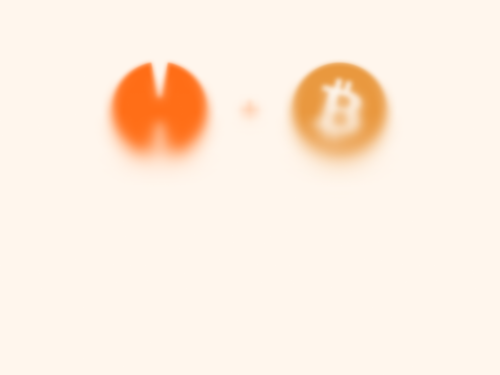
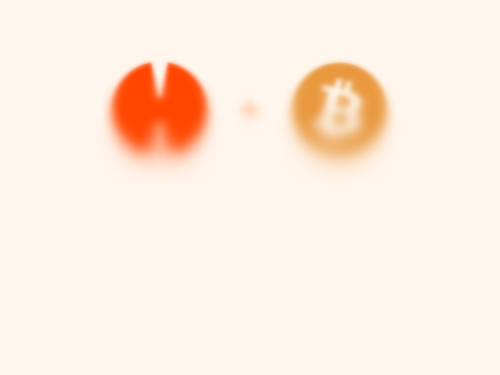
Update shades of orange

Changed region(s): [[0.21, 0.176, 0.42, 0.4107]]

diff --git a/portal/stories/table.stories.tsx b/portal/stories/table.stories.tsx
@@ -23,7 +23,7 @@ type Row = {
 
 const HemiToken = ({ className }: { className?: string }) => (
   <svg aria-hidden="true" className={className} fill="none" viewBox="0 0 20 20">
-    <rect fill="#FF6C15" height={20} rx={10} width={20} />
+    <rect fill="#FF4600" height={20} rx={10} width={20} />
     <path
       d="M11.2016 3.7519C11.1372 3.74034 11.0767 3.78272 11.0653 3.84823L10.2895 8.3296H9.71049L8.93468 3.84823C8.92333 3.78272 8.86277 3.74034 8.79844 3.7519C6.04337 4.29521 3.93165 6.68425 3.75757 9.60504C3.75757 9.60889 3.75 9.7322 3.75 9.79385C3.75 9.80156 3.75 9.80926 3.75 9.81312C3.75 9.83624 3.75 9.85935 3.75 9.88247C3.75 9.89018 3.75 9.89789 3.75 9.90945C3.75 9.94027 3.75 9.96725 3.75 9.99807C3.75 13.0961 5.92227 15.674 8.80222 16.2442C8.86656 16.2558 8.92711 16.2134 8.93846 16.1479L9.71427 11.6665H10.2933L11.0653 16.1518C11.0767 16.2173 11.1372 16.2597 11.2016 16.2481C13.9566 15.7009 16.0646 13.3119 16.2424 10.3911C16.2424 10.3873 16.25 10.2639 16.25 10.2023C16.25 10.1946 16.25 10.1869 16.25 10.183C16.25 10.1599 16.25 10.1368 16.25 10.1137C16.25 10.106 16.25 10.0983 16.25 10.0867C16.25 10.0559 16.25 10.0289 16.25 9.99807C16.2538 6.90003 14.0815 4.32218 11.2016 3.7519Z"
       fill="white"

diff --git a/portal/components/icons/inboxIcon.tsx b/portal/components/icons/inboxIcon.tsx
@@ -14,7 +14,7 @@ export const InboxIcon = function () {
         <path
           clipRule="evenodd"
           d="M.999 11.27c0-.246.033-.492.099-.73l1.523-5.521A2.75 2.75 0 0 1 5.272 3h9.454a2.75 2.75 0 0 1 2.651 2.019l1.523 5.52c.066.239.099.485.099.732V15a2 2 0 0 1-2 2h-14a2 2 0 0 1-2-2v-3.73Zm3.068-5.852A1.25 1.25 0 0 1 5.272 4.5h9.454a1.25 1.25 0 0 1 1.205.918l1.523 5.52c.006.02.01.041.015.062h-3.47a1 1 0 0 0-.86.49l-.606 1.02a1 1 0 0 1-.86.49H8.235a1 1 0 0 1-.894-.553l-.448-.894A1 1 0 0 0 5.999 11h-3.47l.015-.062 1.523-5.52Z"
-          fill="#FF6C15"
+          fill="#FF4600"
           fillRule="evenodd"
         />
       </g>

diff --git a/portal/components/icons/walletIcon.tsx b/portal/components/icons/walletIcon.tsx
@@ -12,7 +12,7 @@ export const WalletIcon = (props: ComponentProps<'svg'>) => (
     <g filter="url(#wallet_icon_filter)">
       <path
         d="M.5 2.25a3.733 3.733 0 0 1 2.25-.75h13.5c.844 0 1.623.279 2.25.75A2.25 2.25 0 0 0 16.25 0H2.75A2.25 2.25 0 0 0 .5 2.25Zm0 3a3.733 3.733 0 0 1 2.25-.75h13.5c.844 0 1.623.279 2.25.75A2.25 2.25 0 0 0 16.25 3H2.75A2.25 2.25 0 0 0 .5 5.25Zm6 .75a1 1 0 0 1 1 1 2 2 0 1 0 4 0 1 1 0 0 1 1-1h3.75a2.25 2.25 0 0 1 2.25 2.25v5.5A2.249 2.249 0 0 1 16.25 16H2.75A2.25 2.25 0 0 1 .5 13.75v-5.5A2.25 2.25 0 0 1 2.75 6H6.5Z"
-        fill="#FF6C15"
+        fill="#FF4600"
       />
     </g>
     <defs>

diff --git a/portal/app/[locale]/stake/_components/icons/starIcon.tsx b/portal/app/[locale]/stake/_components/icons/starIcon.tsx
@@ -4,7 +4,7 @@ export const StarIcon = () => (
       <path
         clipRule="evenodd"
         d="M10 2.188a.938.938 0 0 1 .865.577l1.762 4.241 4.58.366a.938.938 0 0 1 .535 1.647l-3.488 2.987 1.066 4.469a.936.936 0 0 1-1.4 1.017L9.998 15.1l-3.92 2.394a.938.938 0 0 1-1.4-1.018l1.066-4.467L2.256 9.02a.938.938 0 0 1 .534-1.647l4.579-.366L9.13 2.766A.938.938 0 0 1 10 2.187Z"
-        fill="#FF6C15"
+        fill="#FF4600"
         fillRule="evenodd"
       />
     </g>
